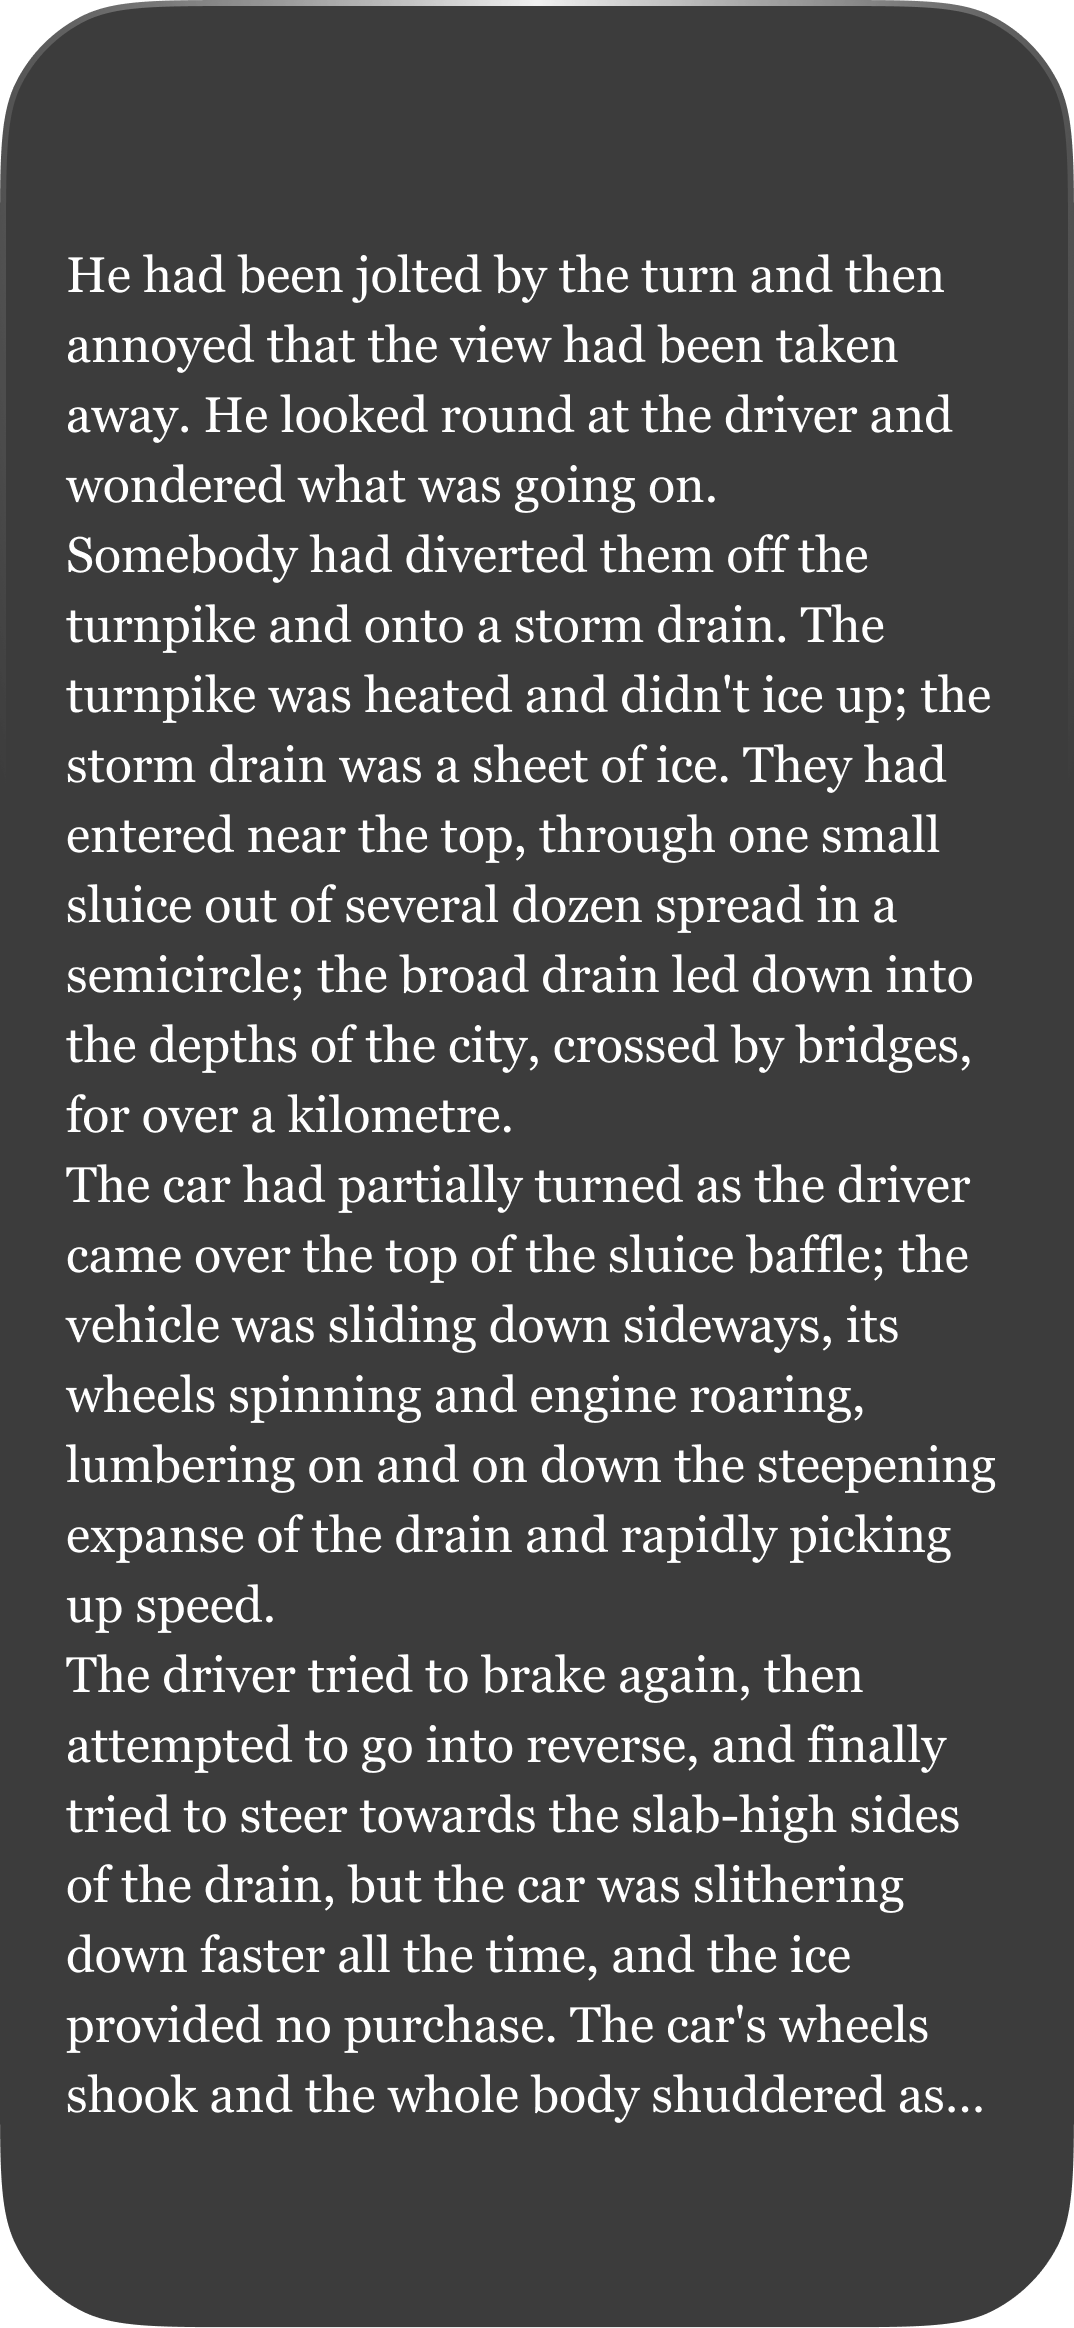
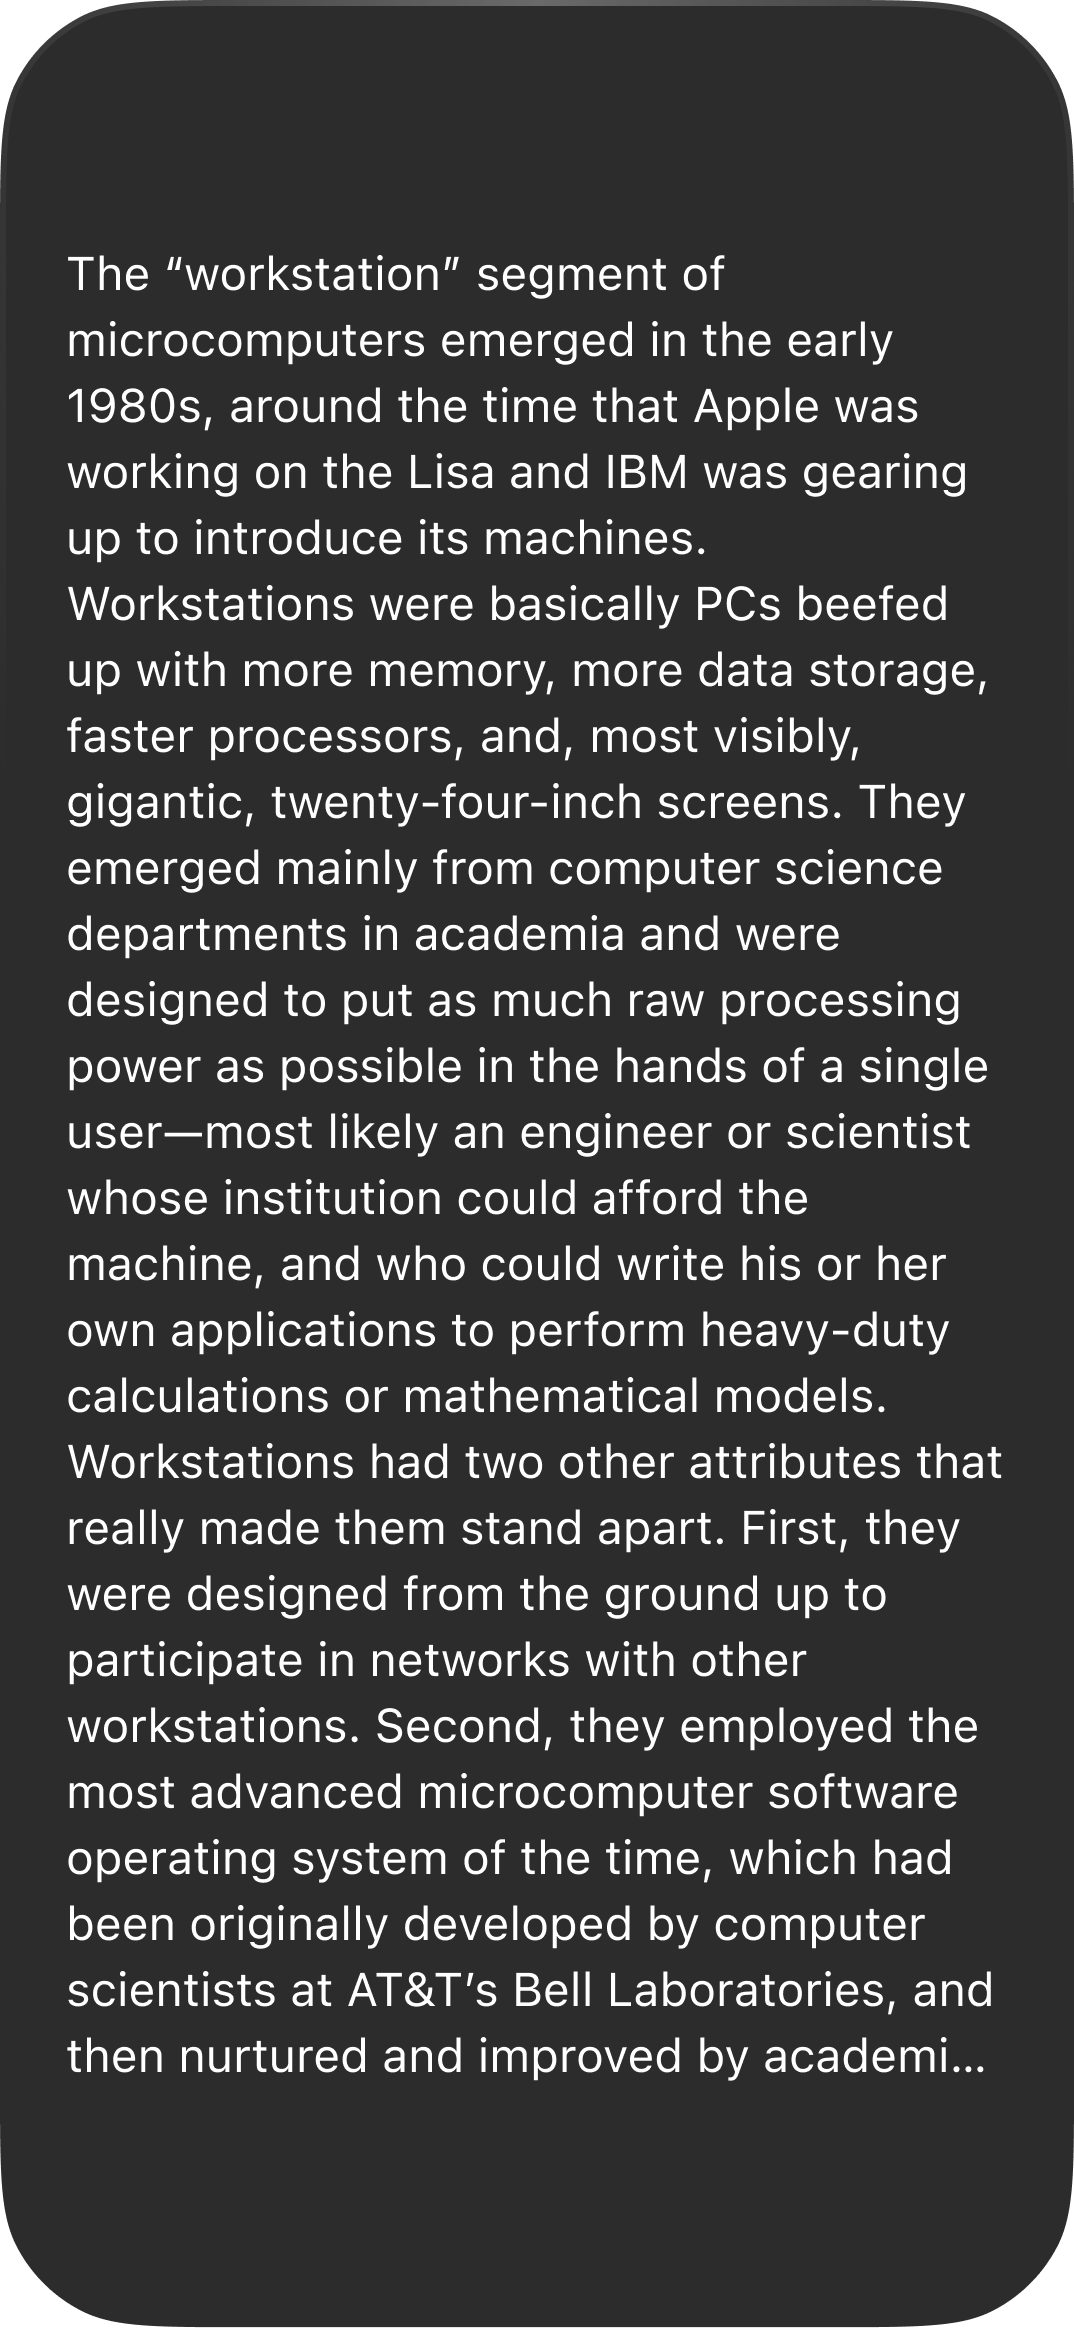
added some books

diff --git a/styles.css b/styles.css
@@ -114,7 +114,7 @@ a {
   border-radius: 999px;
   color: #211d1a;
   font-size: 0.96rem;
-  font-weight: 400;
+  font-weight: 500;
   background: #fff;
   box-shadow: 0 10px 22px rgb(33 29 26 / 14%);
 }
@@ -517,6 +517,15 @@ h1 {
   text-align: center;
 }
 
+.temp-subtitle {
+  max-width: 45ch;
+  margin: 22px 0 0;
+  color: rgb(255 255 255 / 64%);
+  font-size: clamp(16px, 1.4vw, 20px);
+  line-height: 1.5;
+  text-align: center;
+}
+
 .temp-download {
   min-height: 44px;
   padding: 0 19px;
@@ -560,12 +569,12 @@ h1 {
   position: absolute;
   top: 50%;
   left: 50%;
-  width: clamp(420px, 50vw, 820px);
-  aspect-ratio: .9;
+  width: clamp(560px, 64vw, 1040px);
+  aspect-ratio: 1;
   border-radius: 48%;
-  background: color-mix(in oklch, var(--theme-glow) 36%, transparent);
-  filter: blur(132px);
-  opacity: .58;
+  background: radial-gradient(ellipse at center, var(--theme-glow) 0%, transparent 70%);
+  filter: none;
+  opacity: .24;
   transform: translate(-50%, -50%);
   transition: background-color 900ms ease;
   will-change: background-color;
@@ -847,6 +856,12 @@ h1 {
 
   .temp-headline {
     font-size: clamp(2.6rem, 12vw, 3.65rem);
+  }
+
+  .temp-subtitle {
+    max-width: 34ch;
+    margin-top: 18px;
+    font-size: 1rem;
   }
 
   .reader-showcase { margin-top: -340px; }

diff --git a/books/catalog.js b/books/catalog.js
@@ -15,7 +15,7 @@ window.AfterglowBooks = [
     title: "Tao Te Ching",
     screen: "books/tao-te-ching/reader.png",
     cover: "books/tao-te-ching/cover.jpg",
-    glow: "oklch(0.70 0.17 57)"
+    glow: "oklch(0.6713 0.0879 219.74)"
   },
   {
     id: "use-of-weapons",
@@ -30,5 +30,12 @@ window.AfterglowBooks = [
     screen: "books/jobs/reader.png",
     cover: "books/jobs/cover.jpg",
     glow: "oklch(0.97 0.015 85)"
+  },
+  {
+    id: "homer",
+    title: "homer",
+    screen: "books/homer/reader.png",
+    cover: "books/homer/cover.webp",
+    glow: "oklch(0.9182 0.0523 226)"
   }
 ];

diff --git a/index.html b/index.html
@@ -37,6 +37,7 @@
       <section class="temp-main" aria-label="Download Afterglow">
         <div class="temp-app-lockup">
           <h1 class="temp-headline">Your books, in their own light.</h1>
+          <p class="temp-subtitle">Afterglow shapes the reading atmosphere for each book, making stories feel distinct, tangible, and easier to return to.</p>
         </div>
       </section>
 
